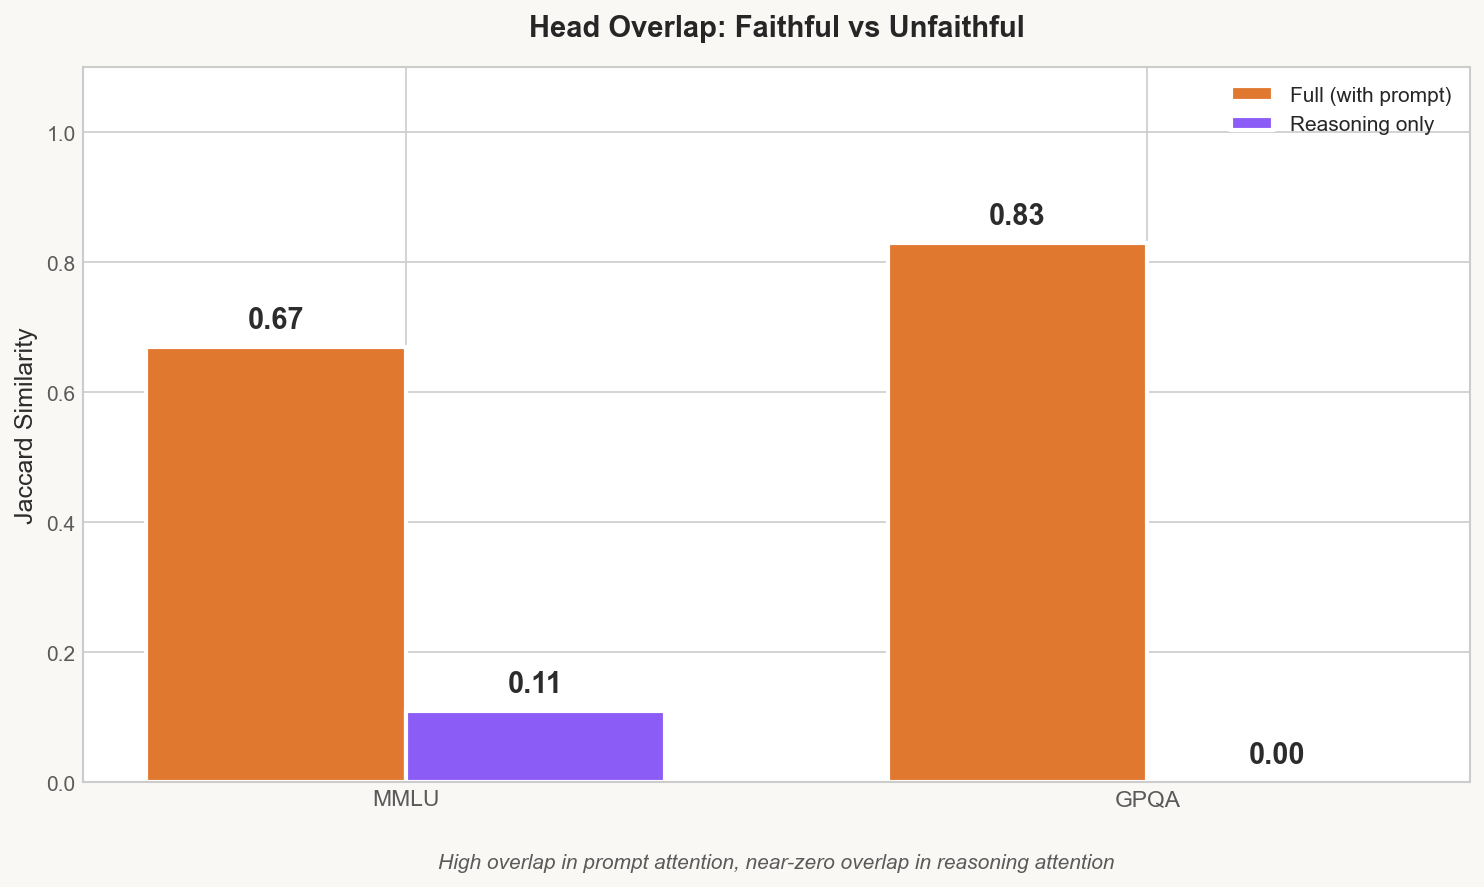
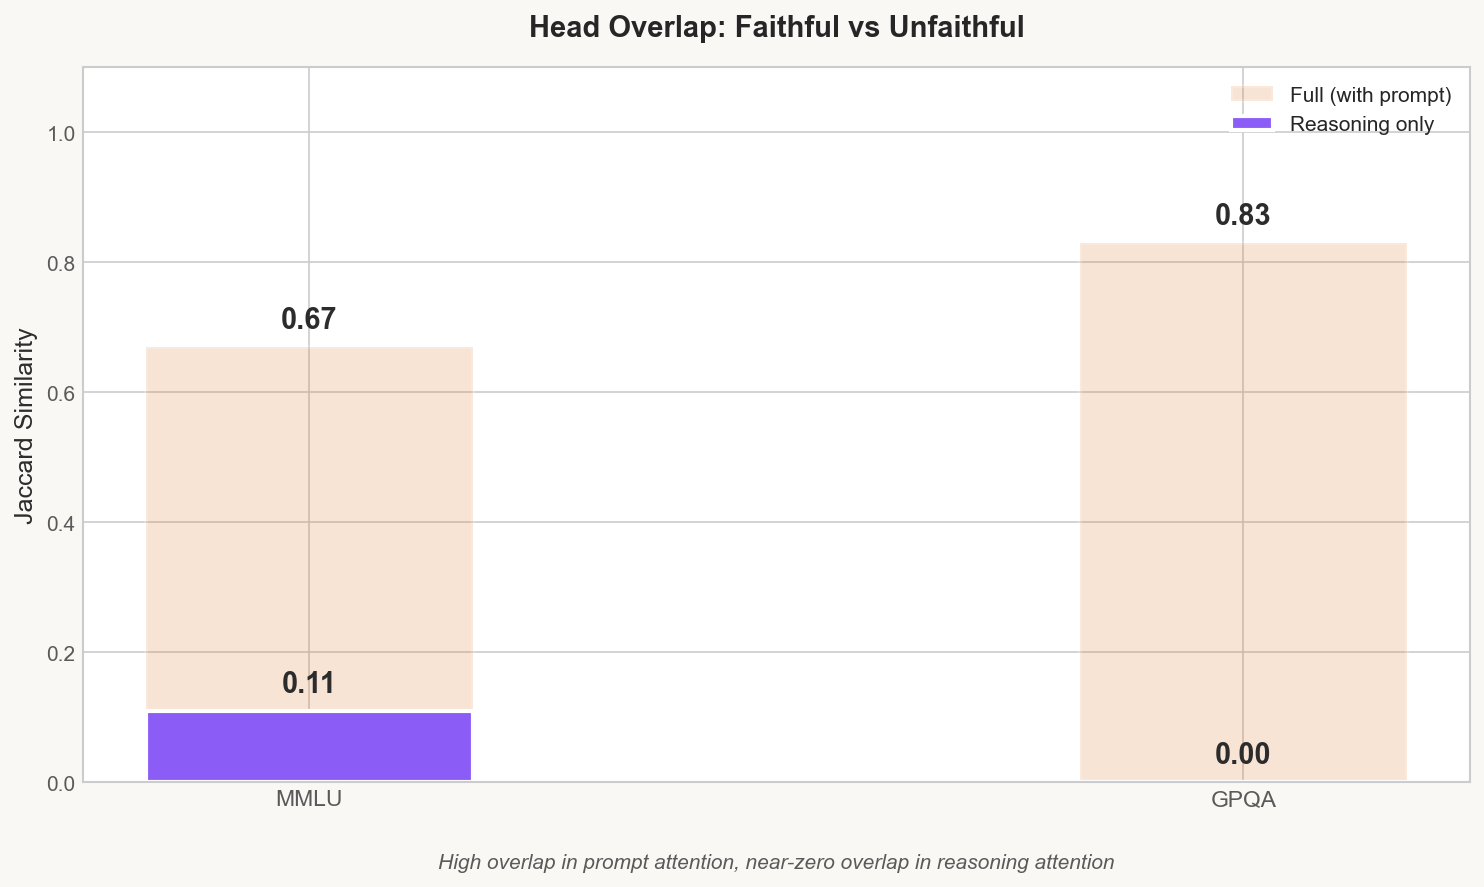
Update divergent circuits graph: overlay bars with transparent orange
Change bar layout from side-by-side to overlapping, with orange bars
rendered behind violet bars at low opacity (alpha=0.2).

diff --git a/webapp/generate_conclusion_graphs.py b/webapp/generate_conclusion_graphs.py
@@ -256,9 +256,11 @@ def create_divergent_circuits_graph():
     full_vals = [data[d]['full'] for d in data]
     reasoning_vals = [data[d]['reasoning'] for d in data]
 
-    bars1 = ax.bar(x - width/2, full_vals, width, label='Full (with prompt)',
-                   color=COLORS['orange'], edgecolor='white', linewidth=2)
-    bars2 = ax.bar(x + width/2, reasoning_vals, width, label='Reasoning only',
+    # Orange bars first (behind), low opacity
+    bars1 = ax.bar(x, full_vals, width, label='Full (with prompt)',
+                   color=COLORS['orange'], edgecolor='white', linewidth=2, alpha=0.2)
+    # Violet bars second (on top), full opacity
+    bars2 = ax.bar(x, reasoning_vals, width, label='Reasoning only',
                    color=COLORS['violet'], edgecolor='white', linewidth=2)
 
     # Add value labels
